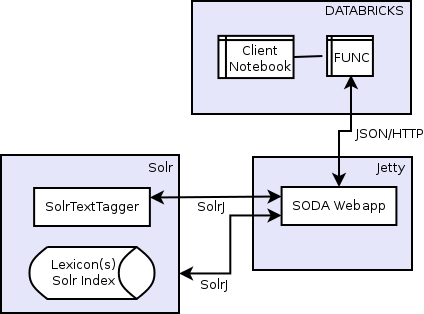
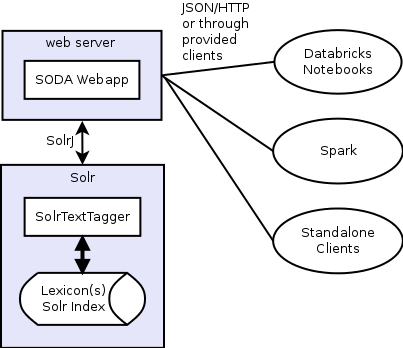
Changes to README.md for v2

diff --git a/README.md b/README.md
@@ -4,25 +4,37 @@
 
 The Solr Dictionary Annotator (SoDA) is a Dictionary-based Annotator (or Gazetteer) that supports exact as well as fuzzy lookups across multiple lexicons.
 
-SoDA is backed by a Solr index into which entity names (and synonyms) are entered, as well as the identifier for that entity. Fast (FST based) span lookup is done using the [SolrTextTagger](https://github.com/OpenSextant/SolrTextTagger) project. Additional fuzzy lookup features are supported using [OpenNLP](https://opennlp.apache.org/) and a mix of various normalization strategies.
+SoDA is backed by a Solr index which holds entity names (primary and alternate names), as well as an identifier for that entity. Multiple copies of these entity names, stemmed by a set of stemming algorithms of various strengths, are created and stored in the index. During annotation, the text to be annotated is stemmed and spans matched against similarly stemmed entity names in the index. Fast (FST based) span lookup is done using the [SolrTextTagger](https://github.com/OpenSextant/SolrTextTagger) project.
+
+SoDA supports multiple dictionaries (lexicons) within the same Solr index. Matching modes currently supported are exact, lower (case insensitive), stop (english stopwords removed), and three levels of stemming (stem1, stem2, stem3) implemented using Solr's Minimal English Stemmer, KStem stemmer and Porter Stemmer respectively.
 
 ### Usage
 
-SoDA provides a JSON over HTTP interface. Requests are submitted to SoDA as JSON documents over HTTP POST, and SoDA responds with JSON documents. This form of API allows us to be language agnostic and cross platform. SoDA can be accessed from individual clients, Spark standalone applications and the [Databricks Notebook](https://databricks.com/product/databricks-cloud) environment using Python and Scala. Details of SoDA's [REST API](docs/api.md) can be found here.
+SoDA provides a JSON over HTTP interface. Requests are submitted to SoDA as JSON documents over HTTP POST, and SoDA responds with JSON documents. This form of API allows us to be language agnostic and cross platform. In addition, SoDA also provides a Scala and a Python client, both of which expose a programmatic interface to SoDA.
+
+Because of the language and platform independence, SoDA can be accessed from other event sources as well, such as [Apache Spark](https://spark.apache.org/) or [Databricks Notebook](https://databricks.com/product/databricks-cloud) environments using Python and Scala.
 
 ### Architecture
 
-In terms of architecture, the SoDA system looks something like this. 
+In terms of architecture, the SoDA system looks something like this. SoDA itself is a fairly lightweight application, and while this is not necessary, it can generally co-exist with Solr on the same box.
 
 ![Architecture](docs/architecture.png)
 
-Callers invoke the annotate (TBD) function with the necessary parameters, which results in a JSON/HTTP call to the SoDA webapp. Some calls, such as exact and lowercase lookup are passed directly to the SolrTextTagger. Other calls such as punctuation normalized lookup or unordered or fuzzy lookups, need the input string to be tokenized and the appropriate query made to Solr instead. For example, punctuation normalized lookups would require sentence normalization to ensure we don't match across sentence boundaries, and unordered or fuzzy lookups will require extracting phrases and matching.
+_Fig 1: SoDA architecture_
 
 ### More Information
 
-* [Running SoDA from Docker](docs/docker-setup.md)
+* [Changes in this version](changelog-v2.md)
 * [SoDA Installation and Configuration](docs/installation.md)
 * [SoDA Application Programming Interface (API)](docs/api.md) 
+
+#### SoDA v1.0 links
+
+The following links describe SoDA v1, which used an older version of Solr (5.0.0) and SolrTextTagger (2.1-SNAPSHOT). The latest release of SoDA v1 can be retrieved using the tag "v1.1". The major difference between v1 and v2 is that the OpenNLP phrase based fuzzy matching has been replaced with multiple levels of stemmed matching, see [Issue#12](https://github.com/elsevierlabs-os/soda/issues/12) for the discussion. Regrettably, I don't have the bandwidth to support v1, please consider moving to the latest version.
+
+* [Running SoDA from Docker (v1)](docs/docker-setup-v1.md)
+* [SoDA Installation and Configuration (v1)](docs/installation-v1.md)
+* [SoDA Application Programming Interface (v1)](docs/api-v1.md) 
 
 ### Citing
 
